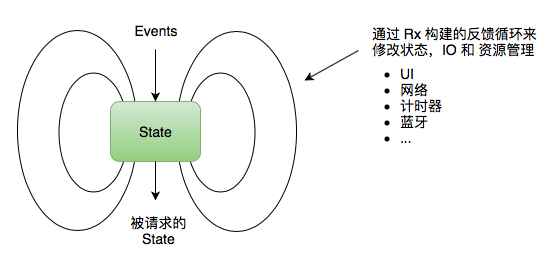
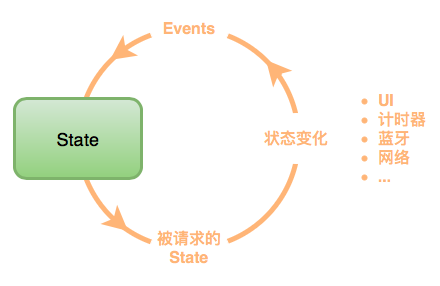
Update RxFeedback images

diff --git a/README.md b/README.md
@@ -4,9 +4,9 @@
 
 ## 简介
 
-这是一份 [RxSwift] 中文文档。目前响应式编程变得越来越流行，我们已经无法阻挡这股热潮。这份文档整合了 [RxSwift] 文档，[RxJS] 文档，[ReactiveX] 文档以及笔者的一些个人观点。目的是为了让大家能够快速上手响应式编程。虽然这份文档主要是介绍 [RxSwift]，不过使用其他响应式编程框架的开发者也可以从中获益。例如：[ReactiveCocoa]，[RxJava]，[RxJS] 等。因为这些框架都有一些共性，例如：响应式的思维方式，操作符的功能及用法等。而这些内容文档里面都有介绍。
+这是一份 [RxSwift] 中文文档。如今响应式编程变得越来越流行，我们已经无法阻挡这股热潮。这份文档整合了 [RxSwift] 文档，[RxJS] 文档，[ReactiveX] 文档以及笔者的一些个人观点。目的是为了让大家能够快速上手响应式编程。虽然本文档主要是介绍 [RxSwift]，不过使用其他响应式框架的开发者也可以从中获益，例如：[ReactiveCocoa]，[RxJava]，[RxJS] 等。因为这些框架都有一些共性，例如：响应式的思维方式，操作符的功能及用法等。而这些内容文档里面都有介绍。
 
-由于这是笔者第一次发布文档，如果文档存在问题，还请谅解。你可通过 [10. 关于本文档] 页面提供的方式，将问题反馈给笔者。非常欢迎大家给我发合并请求。
+由于这是笔者第一次发布文档，如果文档存在问题，还请谅解。你可通过 [10. 关于本文档] 页面提供的方式，将问题反馈给笔者。同时也非常欢迎大家给我发合并请求。
 
 ## 目录
 

diff --git a/content/rxswift_core/schedulers.md b/content/rxswift_core/schedulers.md
@@ -30,17 +30,17 @@ rxData
     .disposed(by: disposeBag)
 ```
 
----------
+---
 
-### 使用 subscribeOn
+### 使用 [subscribeOn]
 我们用 [subscribeOn] 来决定数据序列的构建函数在哪个 **Scheduler** 上运行。以上例子中，由于获取 `Data` 需要花很长的时间，所以用 [subscribeOn] 切换到 **后台 Scheduler** 来获取 `Data`。这样可以避免主线程被阻塞。
 
-### 使用 observeOn
+### 使用 [observeOn]
 我们用 [observeOn] 来决定在哪个 **Scheduler** 监听这个数据序列。以上例子中，通过使用 [observeOn] 方法切换到主线程来监听并且处理结果。
 
 一个比较典型的例子就是，在后台发起网络请求，然后解析数据，最后在主线程刷新页面。你就可以先用 [subscribeOn] 切到后台去发送请求并解析数据，最后用 [observeOn] 切换到主线程更新页面。
 
----------
+---
 
 ### MainScheduler
 MainScheduler 代表**主线程**。如果你需要执行一些和 UI 相关的任务，就需要切换到该 Scheduler 运行。

diff --git a/content/rxswift_core/disposable.md b/content/rxswift_core/disposable.md
@@ -118,7 +118,7 @@ override func viewDidLoad() {
 
 这将使得订阅一直持续到控制器的 **dealloc** 事件产生为止。
 
-_注意⚠：这里配图中所使用的 `Observable` 都是“热” `Observable`，它使我们更容易理解订阅的生命周期。如果你想要了解更多关于 “冷热” `Observable` 之间的区别，可以参考官方文档 [Hot and Cold Observables]。_
+_注意⚠：这里配图中所使用的 `Observable` 都是**“热”** `Observable`，它可以帮助我们理解订阅的生命周期。如果你想要了解 **“冷热”** `Observable` 之间的区别，可以参考官方文档 [Hot and Cold Observables]。_
 
 [takeUntil]:/content/decision_tree/takeUntil.md
 [Hot and Cold Observables]:https://github.com/ReactiveX/RxSwift/blob/master/Documentation/HotAndColdObservables.md

diff --git a/content/about/CHANGELOG.md b/content/about/CHANGELOG.md
@@ -6,6 +6,7 @@
 
 ## master
 
+* 更新 [RxFeedback](/content/architecture/rxfeedback.md) 配图，与官方保持一致
 * 修复 [Maybe](/content/rxswift_core/observable/maybe.md) 中的[描述问题](https://github.com/beeth0ven/RxSwift-Chinese-Documentation/pull/9/files)
 
 ---
